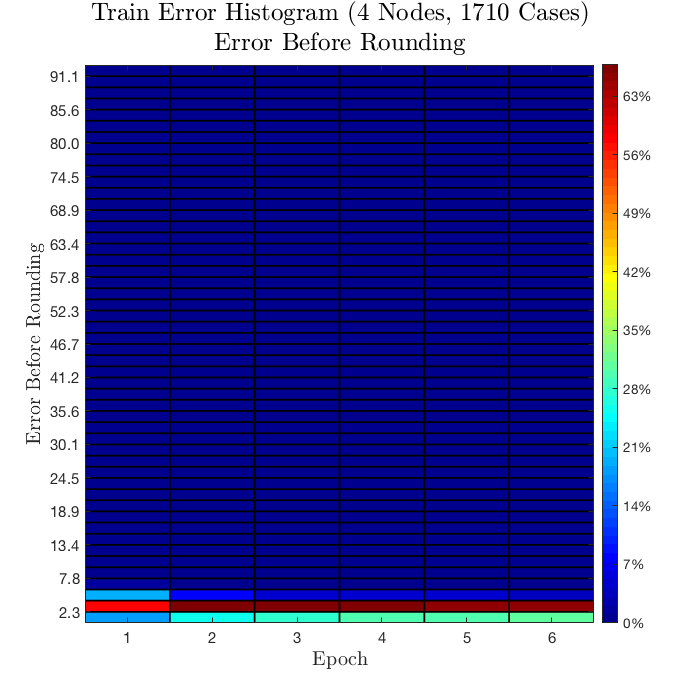
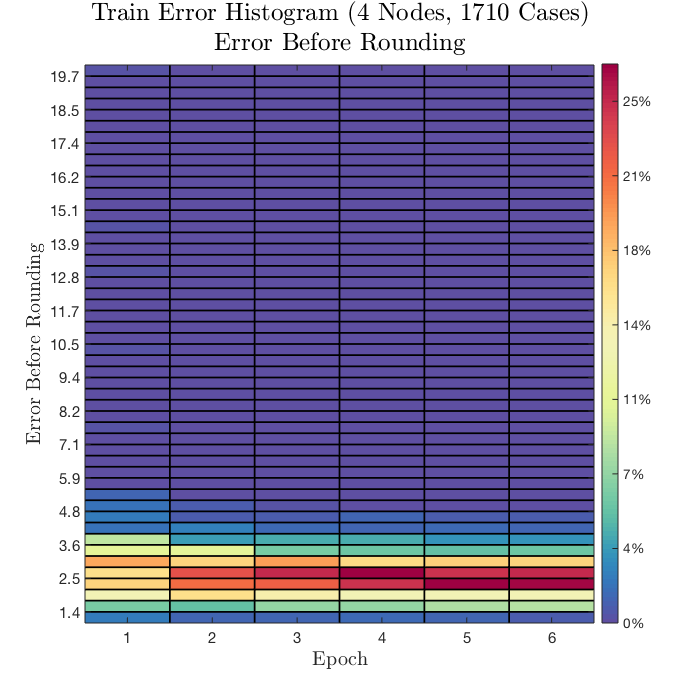
Added training and testing logs

diff --git a/error_hist_train.m b/error_hist_train.m
@@ -20,7 +20,7 @@ function error_hist_train(error_vector, error_type, num_bins, fig_size, font_siz
         % Histogram generation
         [N, C] = hist3(error_vector, [max(error_vector(:, 1)), num_bins]);
         imagesc(1:1:max(error_vector(:, 1)), C{2}, N');
-        colormap(jet);
+        colormap(linspecer);
         cb = colorbar;
         
         % Axis tidying
